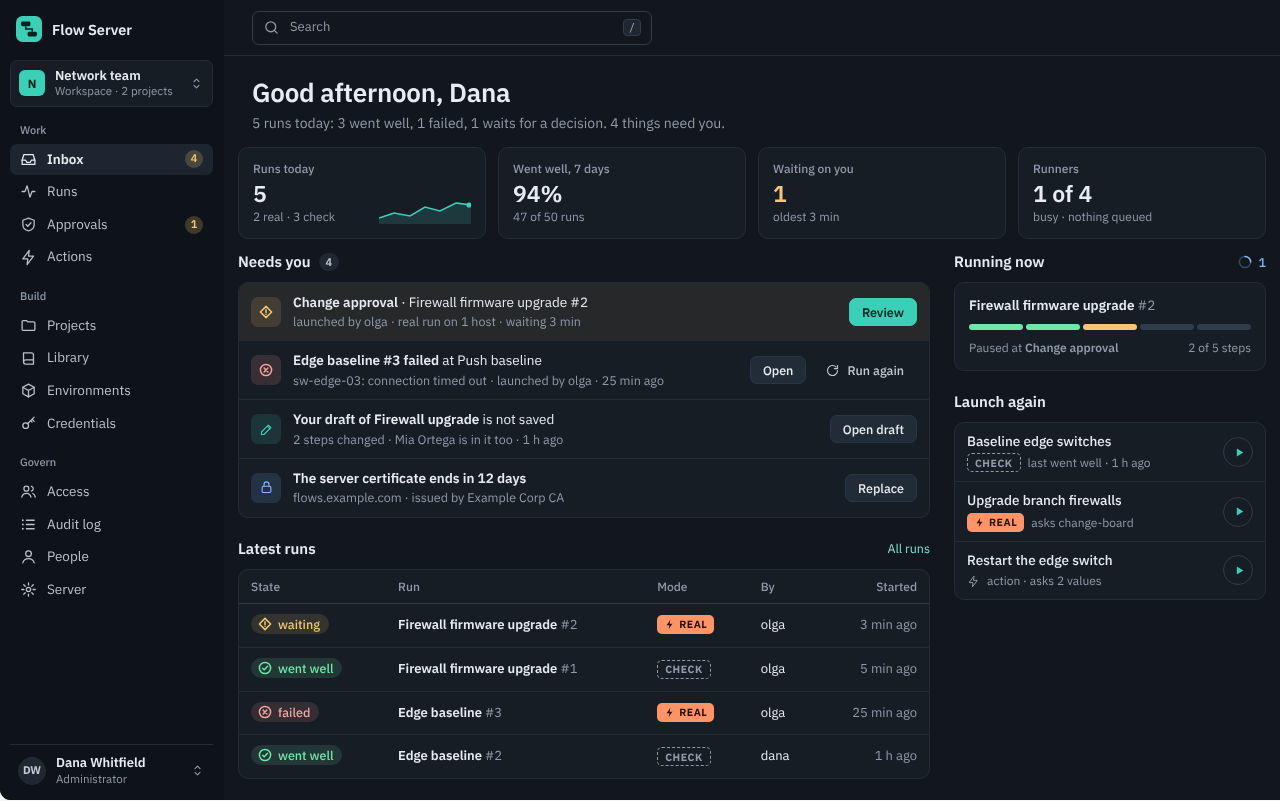
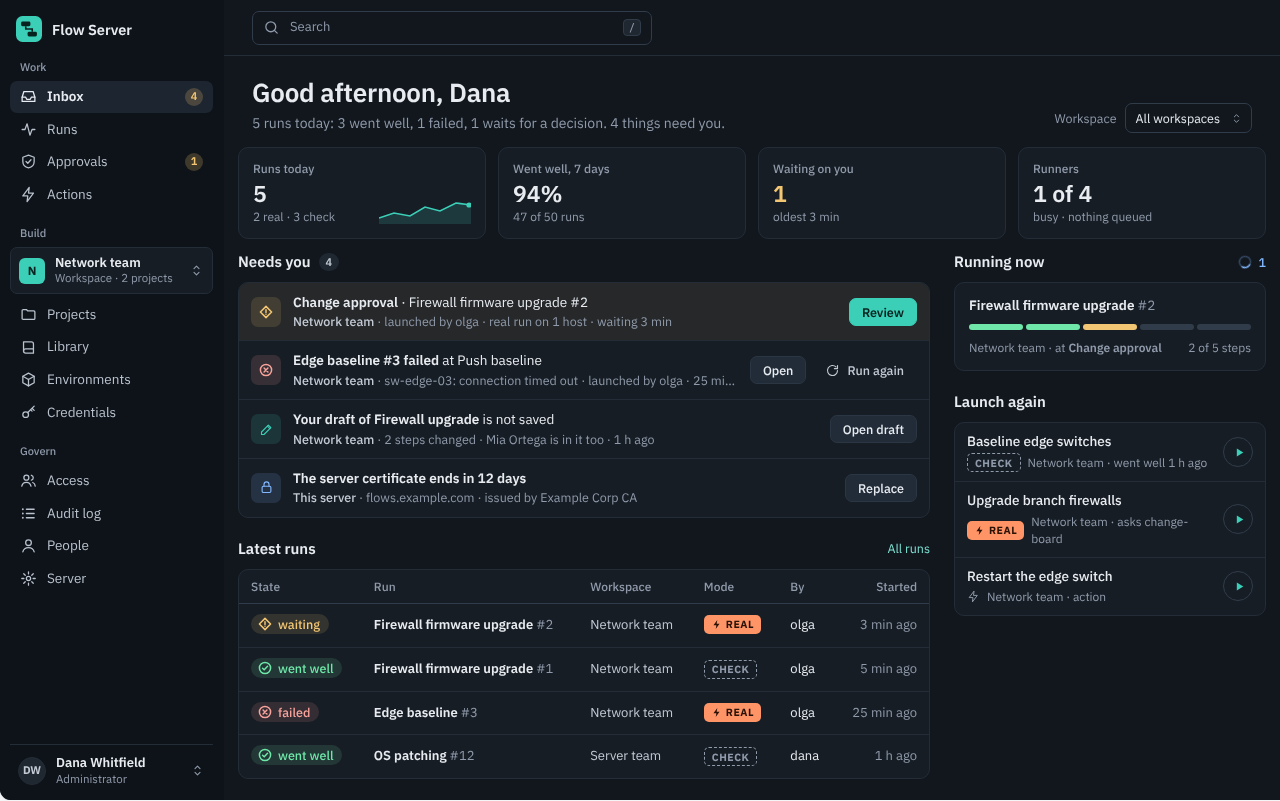
ADR-0039: the Work group spans workspaces, the switcher scopes Build only (AFS-274)

diff --git a/docs/adr/0039-control-room-3.md b/docs/adr/0039-control-room-3.md
@@ -1,7 +1,8 @@
 # ADR-0039: Control Room 3: the pages' structure and look
 
 - Status: proposed (2026-11-26, epic AFS-267, this record AFS-268). The product owner chose
-  Control Room 3 from five directions on 2026-11-26. The mock-ups are in
+  Control Room 3 from five directions on 2026-11-26, and answered the record's one open question
+  the same day: the Work group spans workspaces (§10, AFS-274). The mock-ups are in
   `docs/design/1.2/control-room-3/`.
 - Builds on: ADR-0011 (the web application), ADR-0012 (flows and the viewer), ADR-0038 (the web
   debugger). Replaces the look of AFS-64 ("Control Room") and keeps its rules: dark by default,
@@ -144,15 +145,28 @@ The glyph is decoration: the word stays the accessible text.
   again.
 - **API:** one call, `GET /api/v1/inbox`. It is easier to keep fast than five calls, and it can be
   offered over MCP too.
+- **Across workspaces,** as the whole Work group (§10): it lists what needs you in every workspace
+  you may see, each item names its workspace, and its count on the menu covers them all.
 
 ### 10. The menu (S1, AFS-274)
 
-- **A workspace switcher** at the top of the side menu.
+- **A workspace switcher** heads the Build group. It scopes that group only.
 - **Three groups:**
-  - Work: Home, Runs, Approvals, Actions. Whether they follow the switcher or span every
-    workspace is open question 1; AFS-274 is not built until it is answered.
-  - Build: Projects, Library, Environments, Credentials. In the chosen workspace.
+  - Work: Home (the inbox), Runs, Approvals, Actions. Across workspaces; they do not follow the
+    switcher.
+  - Build: Projects, Library, Environments, Credentials. In the workspace the switcher picks.
   - Govern: Access, Audit log, People, Server. For administrators.
+- **The Work group across workspaces** (the product owner's answer, 2026-11-26):
+  - Each Work page lists every workspace the person may see.
+  - Every row names its workspace: a column on wide screens, part of the row's second line on a
+    phone.
+  - Each page has a workspace filter, off by default and kept in the address
+    (`?workspace=<key>`), as the Runs page keeps its state and project today.
+  - The counts on the menu (Inbox, Approvals) cover all workspaces.
+  - Access stays per workspace: a row appears only where the person may see it, and its actions
+    follow that workspace's access level.
+- **A workspace's Access page** is of one workspace while Govern does not follow the switcher.
+  Where it sits is settled in AFS-274's plan.
 - **Your name** opens one account menu: profile, access tokens, theme, help, sign out.
 - **The folded menu** keeps the same groups.
 - This restructures `app.tsx`, which the debugger work changes often, so it comes last and its
@@ -186,15 +200,6 @@ CHANGELOG where people see a change:
 6. AFS-212: inbox.
 7. AFS-273: tables and the quiet button.
 8. AFS-274: the menu.
-
-## Open questions
-
-For the product owner. What depends on an answer is not built until then.
-
-1. **Work across workspaces (AFS-274).** Today Runs, Approvals and Actions list what a person may
-   see, and access is checked workspace by workspace. With a workspace switcher, should the Work
-   group follow the chosen workspace, or keep listing every workspace the person may see? If it
-   spans workspaces, the pages must say which workspace each row is in.
 
 ## Alternatives considered
 

diff --git a/docs/design/1.2/control-room-3/README.md b/docs/design/1.2/control-room-3/README.md
@@ -19,7 +19,7 @@ What to build from each picture is what ADR-0039 decides, and nothing more:
   build only the head's state shape, the Real badge and the real run's stripe (AFS-269), the
   canvas in the page's colours (AFS-270), and the approval card's next steps and evidence
   (AFS-271).
-- **The side menu** (workspace switcher, Work / Build / Govern, the account at its end) is AFS-274.
-  Whether Work follows the switcher is the record's open question 1; it is not built until
-  answered.
+- **The side menu** (Work / Build / Govern, the switcher heading Build, the account at its end) is
+  AFS-274. Work spans workspaces (ADR-0039 §10): the Inbox names each row's workspace and has a
+  workspace filter, off by default.
 - **The top bar** is today's: the search box only.
